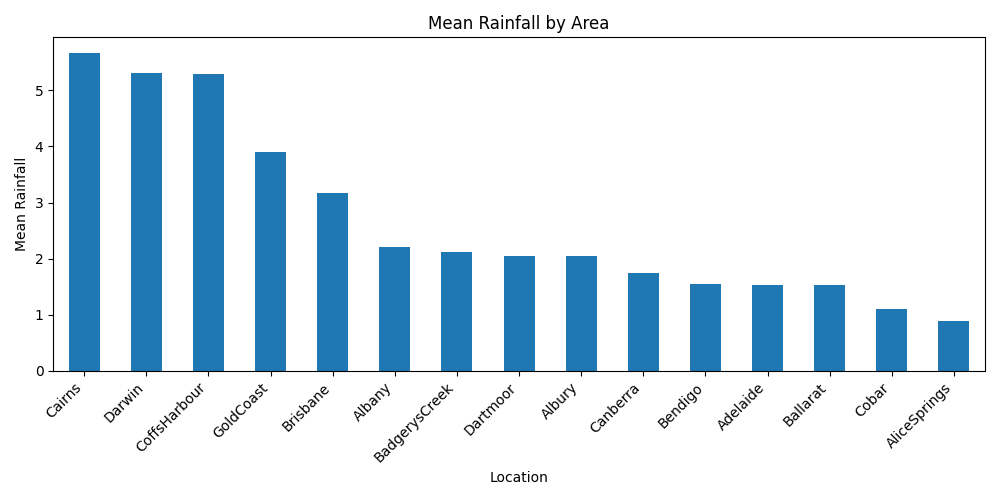
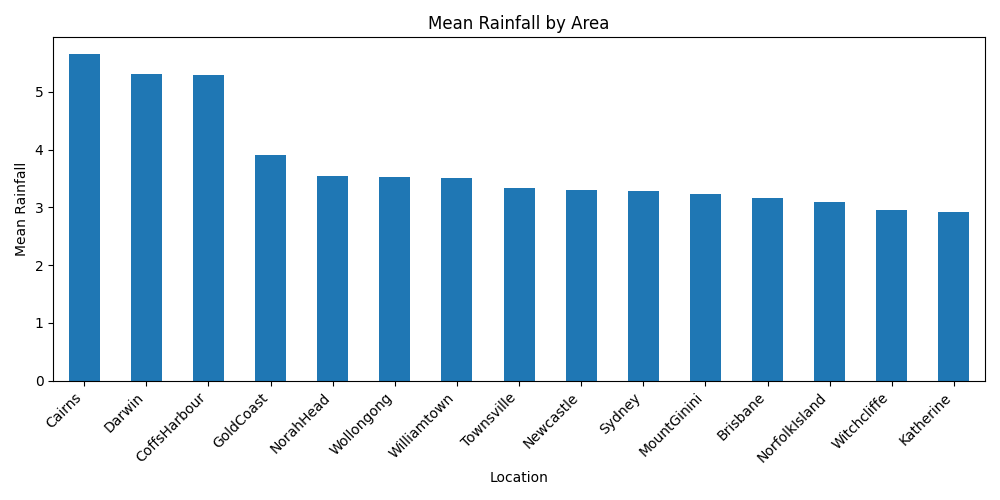
added tests for my new report actions and refined new reports

diff --git a/reports.py b/reports.py
@@ -178,11 +178,12 @@ class MeanRainfallByArea(ReportAction):
 
     def run(self, data) -> None:
         try:
+            # group by location to find rainfall averages for each area
             df = data.df.copy()
             df = df.dropna(subset=["Location", "Rainfall"])
             mean_rainfall = df.groupby("Location")["Rainfall"].mean()
-            mean_rainfall = mean_rainfall.head(self.top_n)
-            mean_rainfall = mean_rainfall.sort_values(ascending=False)
+            #Sort and get top N locations
+            mean_rainfall = mean_rainfall.sort_values(ascending=False).head(self.top_n)
 
                 # Plotting
             plt.figure(figsize=(10, 5))
@@ -205,12 +206,12 @@ class TopTempRangeByLocation(ReportAction):
     def __init__(self, top_n: int = 15, output_file: str = "report_outputs/Top_Temp_Range_By_Location.png"):
         self.top_n = top_n
         self.output_file = output_file
-        
+
     def run(self, data) -> None:
         try:
             rows = data.df.to_dict(orient="records")
 
-            # 1⃣ Filter rows that have valid MinTemp, MaxTemp, Location
+            #clean data with filter
             valid_rows = list(filter(
                 lambda r: (
                     r.get("Location") is not None
@@ -223,8 +224,9 @@ class TopTempRangeByLocation(ReportAction):
             if not valid_rows:
                 print("No valid temperature rows found.")
                 return
+            
 
-            # 2⃣ Map rows to (Location, TempRange)
+            # transform rows into ranges of maxtemp - mintemp
             location_ranges = list(map(
                 lambda r: (
                     r["Location"],
@@ -233,7 +235,7 @@ class TopTempRangeByLocation(ReportAction):
                 valid_rows
             ))
 
-            # 3⃣ Reduce into dictionary of totals and counts
+            # reduce to aggrete total temp range and row count per location
             def reducer(acc, item):
                 loc, temp_range = item
 
@@ -246,22 +248,17 @@ class TopTempRangeByLocation(ReportAction):
 
             aggregated = reduce(reducer, location_ranges, {})
 
-            # 4⃣ Compute average temp range per location
+            # Calculate average temp range per location with aggregated totals and counts
             avg_ranges = {
                 loc: values["total"] / values["count"]
                 for loc, values in aggregated.items()
                 if values["count"] > 0
             }
 
-            # 5⃣ Sort and get top N
+            # Sort and get top N locations from avg_ranges
             top = sorted(avg_ranges.items(), key=lambda x: x[1], reverse=True)[:self.top_n]
 
-            print(f"\nTop {self.top_n} Locations by Average Temp Range (MaxTemp - MinTemp):")
-            for loc, value in top:
-                print(f"{loc}: {value:.2f}")
             # Convert to dict for plotting
-
-
             top_dict = dict(top)
             # 6⃣ PLOT
             plt.figure(figsize=(10, 5))
@@ -277,4 +274,4 @@ class TopTempRangeByLocation(ReportAction):
             print(f"\nChart saved to: {self.output_file}")
 
         except Exception as e:
-            print(f"Error calculating temp range (functional): {e}")
+            print(f"Error calculating temp range: {e}")

diff --git a/tests/test_reports.py b/tests/test_reports.py
@@ -1,7 +1,10 @@
-from reports import ReportGenerator, ReportConfig, ReportAction
-from data_objects import DataStorageObject
+from importlib.abc import Loader
+from reports import ReportGenerator, ReportConfig, ReportAction, TopTempRangeByLocation, MeanRainfallByArea
+from data_objects import DataStorageObject, DataLoader
 import pandas as pd
 import pytest   
+import matplotlib 
+matplotlib.use('Agg')  # Use non-interactive backend for testing
 
 
 
@@ -44,3 +47,48 @@ def test_report_generator_build_actions_building_correctly():
 
     assert len(report_gen.report_actions) == 2
     assert all(isinstance(action, ReportAction) for action in report_gen.report_actions)
+
+
+# ================================================    Report Actions Tests  ================================================
+
+def test_mean_rainfall_by_area_creates_plot_file(tmp_path):
+    df = pd.DataFrame({
+        "Location": ["A", "A", "B", "B"],
+        "Rainfall": [100.0, 150.0, 200.0, 180.0]
+    })
+    dso = DataStorageObject(df)
+
+    out_file = tmp_path / "mean_rain.png"
+    report = MeanRainfallByArea(top_n=2, output_file=str(out_file))
+    report.run(dso)
+
+    assert out_file.exists()
+    assert out_file.stat().st_size > 0 
+
+def test_top_temp_range_by_location_creates_plot_file(tmp_path):
+    df = pd.DataFrame({
+        "Location": ["A", "A", "B", "B"],
+        "MinTemp": [10.0, 5.0, 0.0, 2.0],
+        "MaxTemp": [20.0, 25.0, 10.0, 12.0],
+    })
+    dso = DataStorageObject(df)
+
+    out_file = tmp_path / "temp_range.png"
+    report = TopTempRangeByLocation(top_n=2, output_file=str(out_file))
+    report.run(dso)
+
+    assert out_file.exists()
+    assert out_file.stat().st_size > 0
+
+def test_top_temp_range_handles_no_valid_rows(capsys, tmp_path):
+    
+    df = pd.DataFrame({"Location": ["A"], "MinTemp": [None], "MaxTemp": [None]})
+    dso = DataStorageObject(df)
+
+    out_file = tmp_path / "temp_range.png"
+    report = TopTempRangeByLocation(top_n=2, output_file=str(out_file))
+    report.run(dso)
+
+    out = capsys.readouterr().out
+    assert "No valid temperature rows found." in out
+    assert not out_file.exists()  

diff --git a/README.md b/README.md
@@ -50,6 +50,7 @@ in later phases.
 ## Install dependencies
 
 ### pip install pandas 
+### pip install matplotlib
 ### pip install pytest pytest-cov
 
 ---
